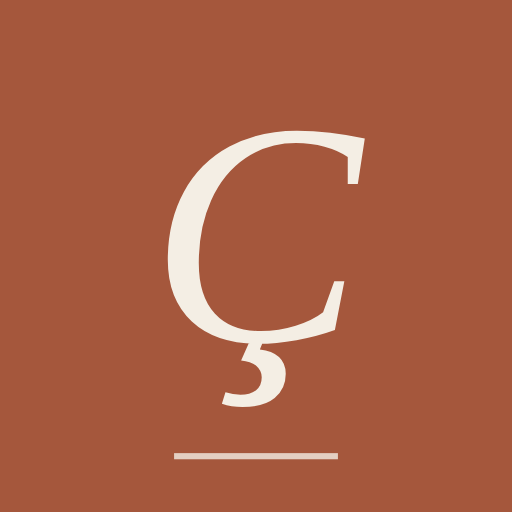
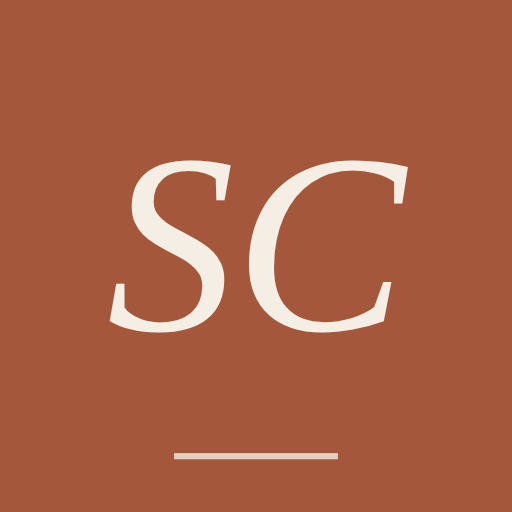
Uygulama adı: SC İhtiyaç Listesi
Başlık, sekme adı, ana ekran adı, manifest, README ve ikon (SC monogramı) güncellendi.

Claude-Session: https://claude.ai/code/session_01D7YoQE5buYJMUjUhR1du2K

Changed region(s): [[0.2188, 0.25, 0.8125, 0.8125]]

diff --git a/style.css b/style.css
@@ -1,4 +1,4 @@
-/* Çeyiz Listesi — "ev dekoru dergisi" teması: krem zemin, serif başlık/fiyat, ince çizgiler */
+/* SC İhtiyaç Listesi — "ev dekoru dergisi" teması: krem zemin, serif başlık/fiyat, ince çizgiler */
 /* Temalar: varsayılan Krem; "Otomatik" telefonun karanlık ayarını izler; Koyu / Adaçayı / Lacivert elle seçilir. */
 :root{
   --serif:"Fraunces",Georgia,"Times New Roman",serif;
@@ -49,10 +49,11 @@ a{color:var(--accent)}
 
 /* Başlık */
 .hero{padding:22px 18px 0;padding-top:calc(22px + env(safe-area-inset-top))}
+.hero-top>div:first-child{flex:1;min-width:0}
 .hero-top{max-width:1080px;margin:0 auto 18px;display:flex;justify-content:space-between;align-items:flex-end;gap:12px;padding-bottom:14px;border-bottom:1px solid var(--line-strong);position:relative}
 .hero-top::after{content:"";position:absolute;left:0;right:0;bottom:-5px;border-bottom:1px solid var(--line)}
 .eyebrow{font-size:10.5px;letter-spacing:.22em;text-transform:uppercase;color:var(--mute);margin-bottom:4px}
-h1{font:400 36px/1.05 var(--serif);margin:0;letter-spacing:-.01em}
+h1{font:400 clamp(25px,6.8vw,36px)/1.08 var(--serif);margin:0;letter-spacing:-.01em}
 h1 em{font-style:italic;color:var(--accent)}
 .who{font-size:10.5px;letter-spacing:.16em;text-transform:uppercase;color:var(--mute);text-align:right;line-height:1.5}
 .who button{background:none;border:0;padding:0;font:500 14px var(--serif);letter-spacing:0;text-transform:none;color:var(--ink);text-decoration:underline;text-underline-offset:3px}

diff --git a/index.html b/index.html
@@ -3,11 +3,11 @@
 <head>
 <meta charset="utf-8">
 <meta name="viewport" content="width=device-width, initial-scale=1, viewport-fit=cover">
-<title>Çeyiz Listesi</title>
+<title>SC İhtiyaç Listesi</title>
 <meta name="theme-color" content="#f4eee4">
 <meta name="apple-mobile-web-app-capable" content="yes">
 <meta name="mobile-web-app-capable" content="yes">
-<meta name="apple-mobile-web-app-title" content="Çeyiz">
+<meta name="apple-mobile-web-app-title" content="SC İhtiyaç">
 <meta name="apple-mobile-web-app-status-bar-style" content="default">
 <script>try{var t=localStorage.getItem("theme");if(t&&t!=="auto")document.documentElement.setAttribute("data-theme",t)}catch(e){}</script>
 <link rel="manifest" href="manifest.webmanifest">
@@ -24,7 +24,7 @@
   <div class="hero-top">
     <div>
       <div class="eyebrow">Ortak ev listemiz</div>
-      <h1>Çeyiz <em>Listesi</em></h1>
+      <h1>SC <em>İhtiyaç Listesi</em></h1>
     </div>
     <div class="hero-right">
       <button id="themeBtn" class="themebtn" type="button" aria-label="Tema seç" title="Tema">◐</button>

diff --git a/README.md b/README.md
@@ -1,4 +1,4 @@
-# Çeyiz Listesi – kurulum (yaklaşık 15 dk)
+# SC İhtiyaç Listesi – kurulum (yaklaşık 15 dk)
 
 Üç parça var: **Supabase** (ortak liste burada durur), **GitHub Pages** (uygulamanın sitesi), **GitHub Actions** (2 saatte bir fiyat tarar). Hepsi ücretsiz.
 
